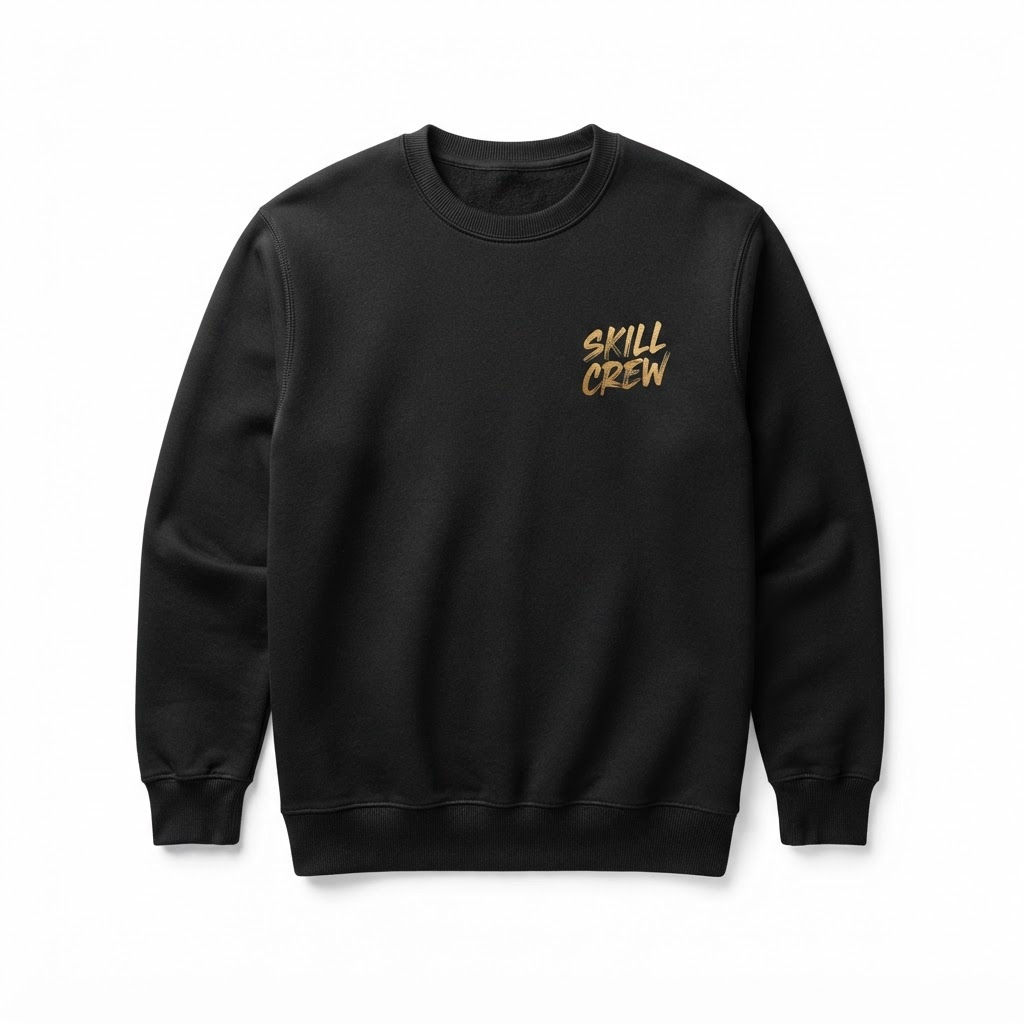
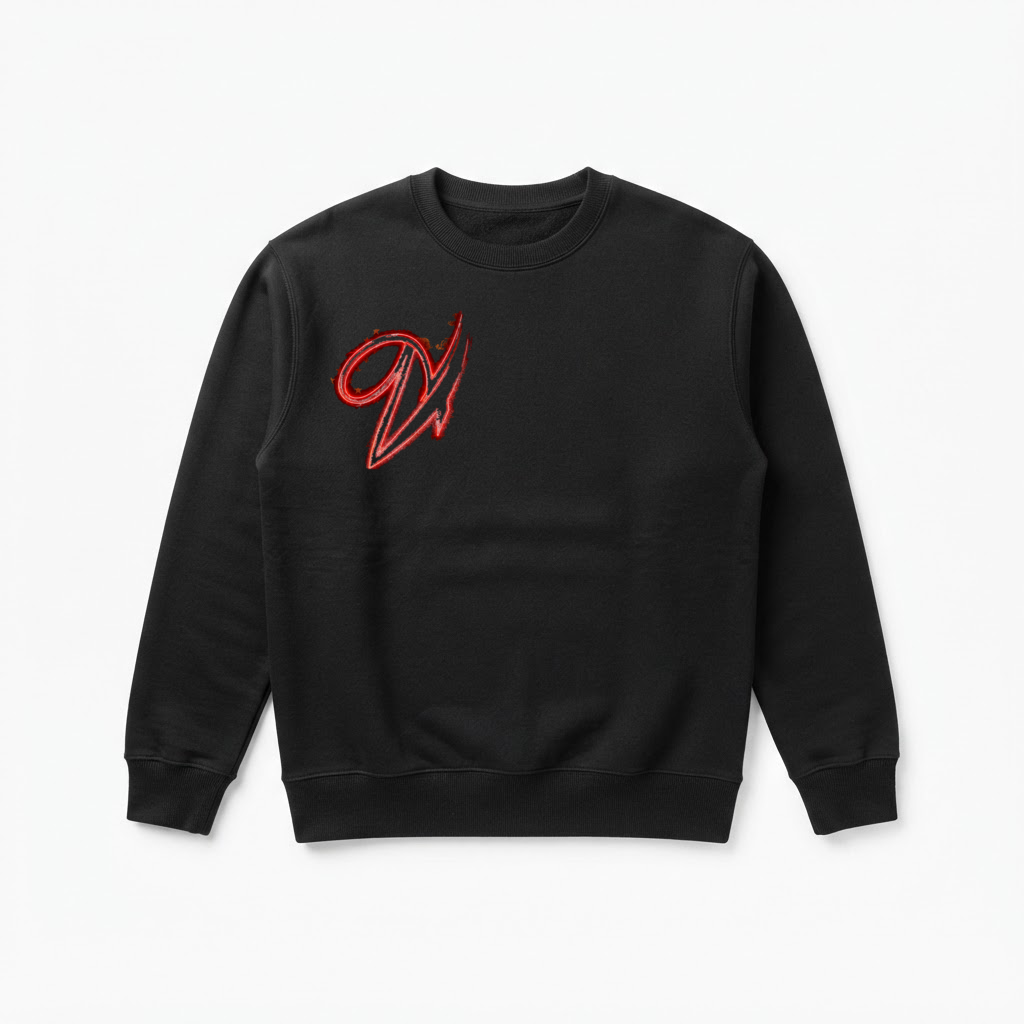
feat: update product labels and descriptions; add new crewneck images\n\nUpdated product colorway labels and descriptions for clarity. Added new images for blank crewnecks and specific wordmarks.

diff --git a/lib/products.ts b/lib/products.ts
@@ -88,7 +88,7 @@ export const products: Product[] = [
     colorways: [
       {
         id: 'black',
-        label: 'Black / Gold',
+        label: 'Black / Neon V',
         swatch: '#111111',
         front: '/products/skillcrew-black-front.png',
         back: '/products/crest-black.jpeg',
@@ -102,13 +102,13 @@ export const products: Product[] = [
       },
       {
         id: 'off-white',
-        label: 'Off-White / Red',
+        label: 'Off-White / Bronze',
         swatch: '#efe8db',
         front: '/products/skillcrew-offwhite-front.png',
       },
     ],
     description:
-      'The everyday piece. A heavyweight crewneck with the torn brush-script "Skill Crew" wordmark on the left chest. Choose your colorway — each carries a different wordmark color.',
+      'The everyday piece. A heavyweight crewneck carrying the real Skill Crew brush lettering on the left chest — black on the grey, bronze on the off-white. The black version wears the neon "V" mark instead.',
     features: [
       'Heavyweight cotton blend',
       'Left-chest Skill Crew brush print',
